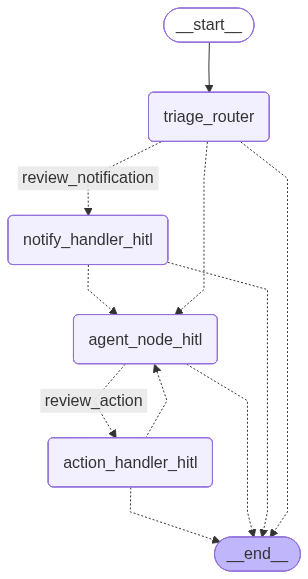
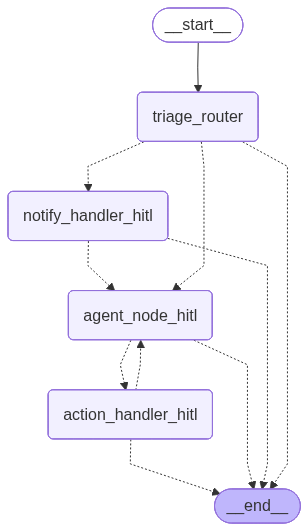
feat: Remove  tool, refine email triage logic, and add interactive HITL test loop with updated graph routing.

diff --git a/email_assistant_hitl/test_hitl.py b/email_assistant_hitl/test_hitl.py
@@ -1,23 +1,30 @@
 """Test script for HITL implementation."""
 
+import sys
+import os
+
+# Add the project root to sys.path
+sys.path.append(os.path.abspath(os.path.join(os.path.dirname(__file__), "..")))
+
 import uuid
 from langgraph.checkpoint.memory import MemorySaver
 from email_assistant_hitl.agent import create_graph
+from langgraph.types import Command
+from langgraph.types import Command
 
 email_input = {
-    "to": "John Doe <john.doe@company.com>",
-    "author": "Alice Smith <alice.smith@company.com>",
-    "subject": "Quick question about API documentation",
+    "to": "Martin Robatto <martin.robatto@company.com>",
+    "author": "Sarah Jenkins <sarah.jenkins@company.com>",
+    "subject": "Sensitive: Meeting Request regarding Q4 Review",
     "email_thread": (
-        "Hi John,\n\n"
-        "I was reviewing the API documentation for the new authentication service "
-        "and noticed a few endpoints seem to be missing from the specs. "
-        "Could you help clarify if this was intentional or if we should update the docs?\n\n"
-        "Specifically, I'm looking at:\n"
-        "- /auth/refresh\n"
-        "- /auth/validate\n\n"
-        "Thanks!\n"
-        "Alice"
+        "Hi Martin,\n\n"
+        "I need to discuss some sensitive matters regarding the upcoming Q4 performance reviews "
+        "and potential restructuring in the engineering team. This is not something I can "
+        "discuss over email or Slack.\n\n"
+        "Can you please make time for a 30-minute private meeting tomorrow morning?\n"
+        "It is rather urgent.\n\n"
+        "Best,\n"
+        "Sarah"
     )
 }
 
@@ -28,5 +35,53 @@ thread_config = {"configurable": {"thread_id": thread_id}}
 graph = create_graph(checkpointer=MemorySaver())
 
 response = graph.invoke({"email_input": email_input}, config=thread_config)
-print("\nGraph execution completed.")
-print("Response:", response["messages"])
+
+# Loop to handle multiple interrupts (e.g. Triage -> Action Review)
+while True:
+    # Check state after invoke/resume
+    state = graph.get_state(thread_config)
+
+    if not state.next:
+        print("\n✅ Graph finished.")
+        print("Result:", state.values["messages"][-1].content)
+        break
+
+    print(f"\n⏸ Graph paused at: {state.next}")
+    
+    if state.tasks and state.tasks[0].interrupts:
+        print("\n🔔 Interrupt caught!")
+        interrupt_value = state.tasks[0].interrupts[0].value
+        print("Interrupt payload:", interrupt_value)
+        
+        print("\n👇 ENTER YOUR ACTION BELOW 👇")
+        print("Options: 'response <text>', 'accept', 'ignore'")
+        print("Tip: Type 'schedule meeting for tomorrow at 10am' to test the flow")
+        user_input_raw = input("Your action: ")
+        print(f"DEBUG: You entered '{user_input_raw}'")
+        
+        
+        if user_input_raw.lower() == "accept":
+             resume_payload = {"type": "accept"}
+        elif user_input_raw.lower() == "ignore":
+             resume_payload = {"type": "ignore"}
+        else:
+             # Default to response
+             text = user_input_raw.replace("response ", "", 1) if user_input_raw.startswith("response") else user_input_raw
+             resume_payload = {
+                "type": "response",
+                "args": text
+             }
+        
+        print(f"\n▶ Resuming with: {resume_payload}...")
+        
+        # Resume the graph
+        res = graph.invoke(
+            Command(resume=[resume_payload]), 
+            config=thread_config
+        )
+        print("DEBUG: Resume complete.")
+    else:
+        # If paused but no interrupt, it might be a breakpoint or just end of step
+        # Just continue to next step (shouldn't happen in this graph config but good safety)
+        print("Paused but no interrupt details found. Stopping.")
+        break

diff --git a/email_assistant_hitl/agent.py b/email_assistant_hitl/agent.py
@@ -11,7 +11,7 @@ from email_assistant_hitl.nodes.agent_node_hitl import agent_node_hitl
 from email_assistant_hitl.nodes.action_handler_hitl import action_handler_hitl
 
 
-def should_respond(state: GraphState) -> Literal["agent_node_hitl", "review_notification", "__end__"]:
+def should_respond(state: GraphState) -> Literal["agent_node_hitl", "notify_handler_hitl", "__end__"]:
     """Route based on email classification.
     
     Args:
@@ -25,7 +25,7 @@ def should_respond(state: GraphState) -> Literal["agent_node_hitl", "review_noti
     if classification == "respond":
         return "agent_node_hitl"
     elif classification == "notify":
-        return "review_notification"
+        return "notify_handler_hitl"
     else:  # ignore
         return "__end__"
 
@@ -49,7 +49,7 @@ def should_continue_after_review(state: GraphState) -> Literal["agent_node_hitl"
         return "__end__"
 
 
-def should_continue_drafting(state: GraphState) -> Literal["review_action", "__end__"]:
+def should_continue_drafting(state: GraphState) -> Literal["action_handler_hitl", "__end__"]:
     """Determine if we should review the drafted action or end.
     
     Args:
@@ -62,11 +62,9 @@ def should_continue_drafting(state: GraphState) -> Literal["review_action", "__e
     last_message = messages[-1]
     
     if last_message.tool_calls:
-        for tool_call in last_message.tool_calls:
-            if tool_call["name"] == "Done":
-                return "__end__"
-        return "review_action"
+        return "action_handler_hitl"
     
+    # If no tool calls, the agent is done (sent a text response)
     return "__end__"
 
 
@@ -108,7 +106,7 @@ def create_graph(checkpointer=None):
         should_respond,
         {
             "agent_node_hitl": "agent_node_hitl",
-            "review_notification": "notify_handler_hitl",
+            "notify_handler_hitl": "notify_handler_hitl",
             "__end__": END,
         },
     )
@@ -128,12 +126,12 @@ def create_graph(checkpointer=None):
         "agent_node_hitl",
         should_continue_drafting,
         {
-            "review_action": "action_handler_hitl",
+            "action_handler_hitl": "action_handler_hitl",
             "__end__": END,
         },
     )
     
-    # After review_action, check if user ignored or approved
+    # After action_handler_hitl, check if user ignored or approved
     workflow.add_conditional_edges(
         "action_handler_hitl",
         should_continue_after_action_review,
@@ -150,4 +148,5 @@ def create_graph(checkpointer=None):
 
 
 # Create the HITL graph instance
-graph = create_graph(checkpointer=None)
+checkpointer = MemorySaver()
+graph = create_graph(checkpointer=checkpointer)

diff --git a/email_assistant_hitl/nodes/agent_node_hitl.py b/email_assistant_hitl/nodes/agent_node_hitl.py
@@ -11,6 +11,7 @@ from email_assistant_hitl.prompts import (
 
 
 # HITL-specific tools prompt
+# HITL-specific tools prompt
 AGENT_TOOLS_PROMPT_HITL = """
 You have access to the following tools to help respond to emails:
 
@@ -26,23 +27,22 @@ Calendar Tools:
 
 Human Interaction Tools:
 - Question: Ask the user a question when you need clarification or additional information
-- Done: Signal that the workflow is complete after sending email or completing actions
 
 MANDATORY TOOL USAGE RULES:
 1. Meeting reschedule requests: You MUST call search_events to find the current meeting, then update_event to reschedule it.
 2. Status/information requests: You MUST call search_emails to find the requested information.
 3. New meeting scheduling: You MUST call check_calendar_availability first, then schedule_meeting.
 4. When you need clarification: Use the Question tool to ask the user.
-5. Final step: After using tools to complete actions, call Done to signal completion.
+5. Final step: NOTIFY THE USER. After you have successfully taken the action (sent email, scheduled meeting), you MUST respond with a concise text message confirming what you did.
 
 NEVER provide a generic response without using tools first.
 
 Think step-by-step:
-- What information do I need? → Use search_emails or search_events
-- What action is requested? → Use update_event, schedule_meeting, or check_calendar_availability
-- Do I need clarification? → Use Question
-- Draft and send response → Use write_email
-- Signal completion → Use Done
+- What information do I need? -> Use search_emails or search_events
+- What action is requested? -> Use update_event, schedule_meeting, or check_calendar_availability
+- Do I need clarification? -> Use Question
+- Draft and send response -> Use write_email
+- Signal completion -> Send a text response summarizing your action
 """
 
 

diff --git a/email_assistant_hitl/prompts/defaults.py b/email_assistant_hitl/prompts/defaults.py
@@ -9,12 +9,13 @@ You are an AI assistant helping to manage emails for a professional.
 default_triage_instructions = """
 Analyze the email and classify it into one of three categories:
 - 'ignore': Spam, promotional emails, newsletters, auto-replies, or irrelevant content
-- 'notify': URGENT alerts or critical issues that require immediate attention but no direct response from you (e.g., system alerts, production outages where ops team handles it)
-- 'respond': Emails that require a reply from you (questions, meeting requests, status requests, action items, or anything asking you to do something)
+- 'notify': URGENT alerts, sensitive/HR/personal matters, or complex issues requiring human judgment/attention before any action is taken
+- 'respond': Routine emails that require a reply (questions, scheduling, status requests) where you can safely draft a response
 
 Key guidelines:
-- If the email asks a question or requests action from you -> 'respond'
-- If it's urgent but someone else is handling it -> 'notify'
+- If the email is sensitive, personal, confidential, or from HR/Leadership -> 'notify'
+- If it's urgent but requires human eyes first -> 'notify'
+- If it's a routine request for action/info -> 'respond'
 - If it's promotional or informational only -> 'ignore'
 """
 

diff --git a/email_assistant_hitl/tools/calendar_tools.py b/email_assistant_hitl/tools/calendar_tools.py
@@ -12,7 +12,7 @@ def schedule_meeting(
     attendees: list[str],
     subject: str,
     duration_minutes: int,
-    preferred_day: datetime,
+    preferred_day: str,
     start_time: int,
 ) -> str:
     """Schedule a calendar meeting.
@@ -21,15 +21,14 @@ def schedule_meeting(
         attendees: List of attendee email addresses
         subject: Meeting subject/title
         duration_minutes: Meeting duration in minutes
-        preferred_day: Preferred date for the meeting
+        preferred_day: Preferred date for the meeting (e.g., "tomorrow", "next Monday", "2024-12-25")
         start_time: Meeting start time (hour in 24h format)
         
     Returns:
         Confirmation message with meeting details
     """
     # Placeholder response - in real app would check calendar and schedule
-    date_str = preferred_day.strftime("%A, %B %d, %Y")
-    return f"Meeting '{subject}' scheduled on {date_str} at {start_time} for {duration_minutes} minutes with {len(attendees)} attendees"
+    return f"Meeting '{subject}' scheduled on {preferred_day} at {start_time} for {duration_minutes} minutes with {len(attendees)} attendees"
 
 
 @tool

diff --git a/email_assistant_hitl/utils/router.py b/email_assistant_hitl/utils/router.py
@@ -11,7 +11,7 @@ from email_assistant_hitl.tools import (
     update_event,
     search_emails,
     Question,
-    Done,
+    Question,
 )
 
 load_dotenv()
@@ -33,7 +33,7 @@ class RouterSchema(BaseModel):
 # Initialize the router LLM with structured output for email classification
 llm_router = ChatOpenAI(model="gpt-4o-mini").with_structured_output(RouterSchema)
 
-# Initialize the HITL LLM with additional tools (Question, Done)
+# Initialize the HITL LLM with additional tools (Question)
 tools_hitl = [
     write_email,
     search_emails,
@@ -42,7 +42,6 @@ tools_hitl = [
     search_events,
     update_event,
     Question,
-    Done,
 ]
 
-llm_with_tools_hitl = ChatOpenAI(model="gpt-4o", temperature=0).bind_tools(tools_hitl, tool_choice="required")
+llm_with_tools_hitl = ChatOpenAI(model="gpt-4o", temperature=0).bind_tools(tools_hitl)

diff --git a/email_assistant_hitl/tools/__init__.py b/email_assistant_hitl/tools/__init__.py
@@ -7,7 +7,7 @@ from email_assistant_hitl.tools.calendar_tools import (
     search_events,
     update_event,
 )
-from email_assistant_hitl.tools.hitl_tools import Question, Done
+from email_assistant_hitl.tools.hitl_tools import Question
 
 __all__ = [
     "write_email",
@@ -17,5 +17,4 @@ __all__ = [
     "search_events",
     "update_event",
     "Question",
-    "Done",
 ]

diff --git a/email_assistant_hitl/tools/hitl_tools.py b/email_assistant_hitl/tools/hitl_tools.py
@@ -14,11 +14,4 @@ class Question(BaseModel):
     content: str
 
 
-@tool
-class Done(BaseModel):
-    """Signal that the email workflow is complete.
-    
-    Use this tool when you have finished all actions (sent email,
-    scheduled meetings, etc.) and the workflow should end.
-    """
-    done: bool
+

diff --git a/email_assistant_hitl/nodes/action_handler_hitl.py b/email_assistant_hitl/nodes/action_handler_hitl.py
@@ -12,7 +12,6 @@ from email_assistant_hitl.tools import (
     search_events,
     update_event,
     Question,
-    Done,
 )
 
 
@@ -25,7 +24,6 @@ tools_by_name = {
     "search_events": search_events,
     "update_event": update_event,
     "Question": Question,
-    "Done": Done,
 }
 
 
